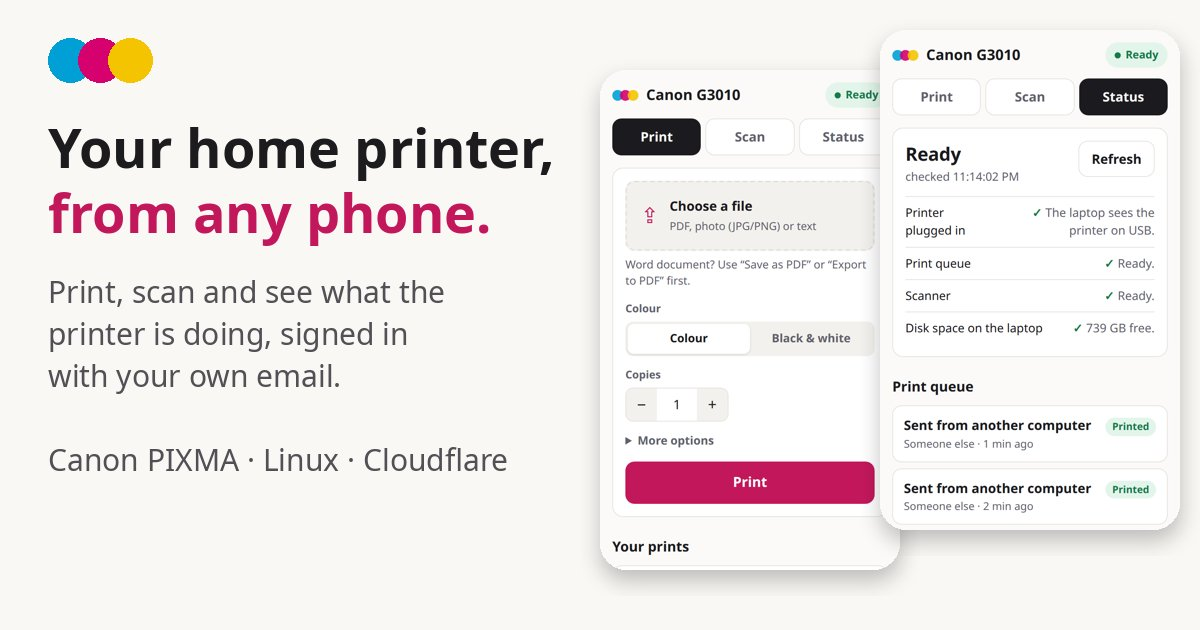
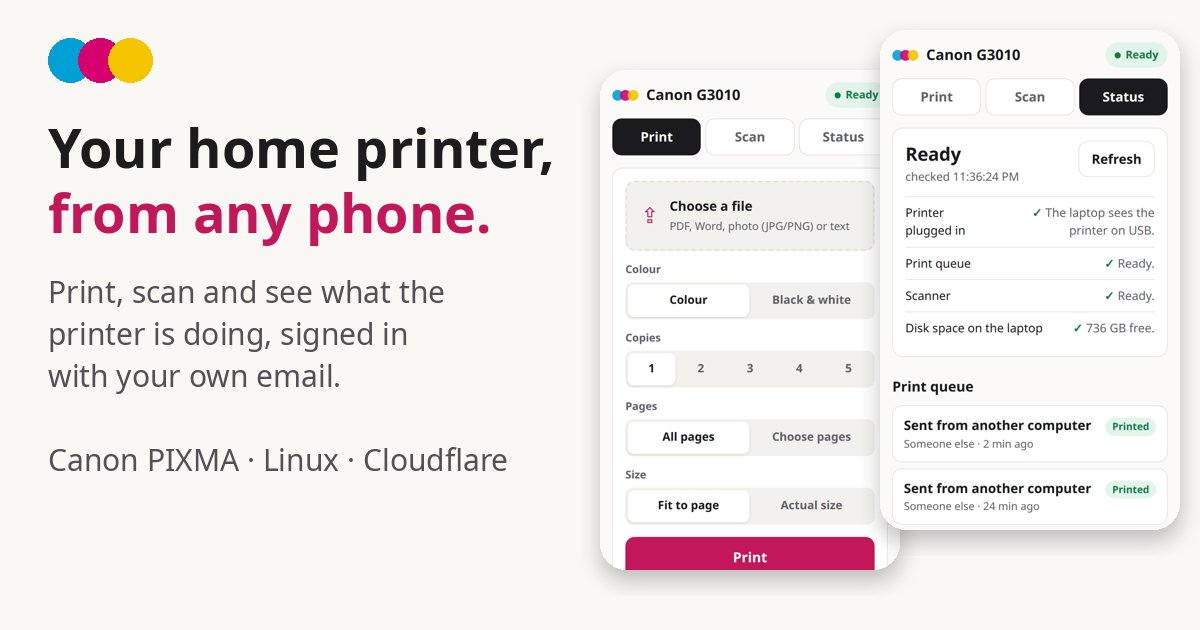
Landing page: new Print screenshot

diff --git a/docs/index.html b/docs/index.html
@@ -311,8 +311,8 @@ ol.steps li { margin-bottom: 8px; }
 
     <div class="shots">
       <figure class="shot">
-        <img src="img/print.jpg" width="780" height="1688" loading="lazy" alt="Print tab on a phone: choose a file, colour or black and white, copies, and a Print button, with the list of your prints below.">
-        <figcaption><strong>Print.</strong> PDF, Word, photos or text. Colour or black and white, copies, page ranges.</figcaption>
+        <img src="img/print.jpg" width="780" height="1688" loading="lazy" alt="Print tab on a phone: choose a file, then one-tap choices for colour, copies, pages and size, and a Print button.">
+        <figcaption><strong>Print.</strong> PDF, Word, photos or text. Colour or black and white, copies, pages, size: one tap each.</figcaption>
       </figure>
       <figure class="shot">
         <img src="img/scan.jpg" width="780" height="1688" loading="lazy" alt="Scan tab on a phone: resolution, colour mode and PDF or JPG, a Scan button, and your saved scans.">
